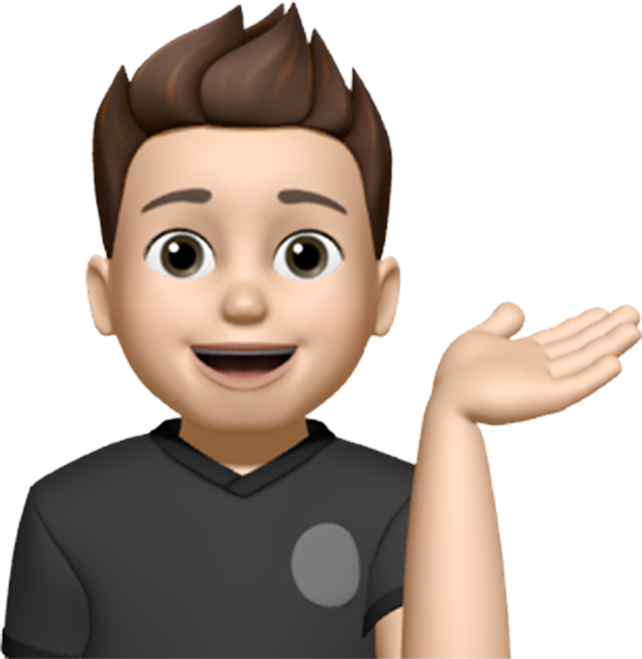
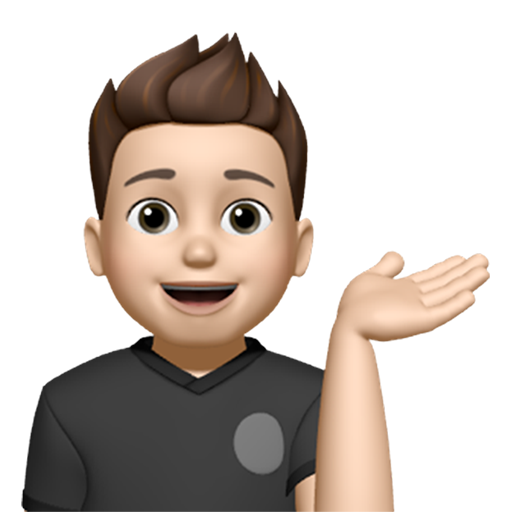
new updata

Changed region(s): [[0.0, 0.0, 1.0, 1.0], [0.4375, 0.7812, 0.5625, 0.9062], [0.4688, 0.9062, 0.5312, 0.9375]]

diff --git a/CSS/badge-details-select-styles.css b/CSS/badge-details-select-styles.css
@@ -249,24 +249,39 @@ fieldset {
   }
   .preview {
     display: block;
-    margin: 0 auto;
+    left: 0;
   }
 
   .bage-img {
     position: relative;
     width: 620px;
-    padding-top: 121px;
+    padding-top: 111px;
     padding-left: 36px;
   }
-  .preview img {
+  .preview .img {
     width: 100%;
+  }
+  .logo {
+    position: absolute;
+    height: 14px;
+    width: 60px;
+    top: 169px;
+    left: 323px;
+  }
+  .allo {
+    position: absolute;
+    color: rgb(218, 217, 217);
+    left: 330px;
+    top: 421px;
+    margin: 0;
+    font-size: 10px;
   }
   .maket {
     position: absolute;
     width: 179px;
     height: 255px;
     background-color: black;
-    top: 174px;
+    top: 164px;
     left: 318px;
     display: flex;
     flex-direction: column;
@@ -337,7 +352,18 @@ fieldset {
     padding-top: 85px;
     padding-left: 57px;
   }
-
+  .allo {
+    left: 431px;
+    top: 484px;
+    font-size: 12px;
+  }
+  .logo {
+    position: absolute;
+    height: 18px;
+    width: 78px;
+    top: 158px;
+    left: 424px;
+  }
   .maket {
     position: absolute;
     width: 229px;

diff --git a/HTML/badge-details-select.html b/HTML/badge-details-select.html
@@ -127,7 +127,7 @@
       </div>
       <div class="preview">
         <div class="bage-img">
-          <img src="../img/bage-macet.png" alt="macet" />
+          <img class="img" src="../img/bage-macet.png" alt="macet" />
           <div class="maket">
             <div class="maket2">
               <h2 class="maket-name"></h2>
@@ -135,6 +135,12 @@
               <div class="gradient"></div>
             </div>
           </div>
+          <p class="allo">allo.ua</p>
+          <img
+            class="logo"
+            src="../img/logo-allo2Монтажна область 1.png"
+            alt="logo"
+          />
         </div>
       </div>
     </div>

diff --git a/js/bage.js b/js/bage.js
@@ -163,4 +163,3 @@ form.addEventListener("change", (event) => {
   maket.prepend(createImg);
 });
 //--------------------- вибір кольору волосся
-const genderfild = document.querySelector(".gender-field");
